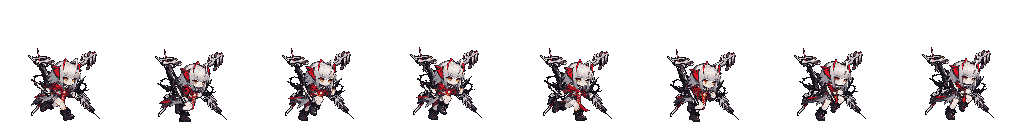
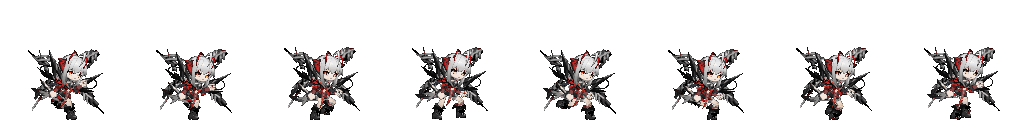
维什戴尔跑步换 Spine 步态版（用户批准 d64e4648）
- op_wisadel_run@2x：tools/spine_run_trial cfg/wisadel.json 出图（8 帧 128 画布，原点 64.5/119.6 ≈ 现行 foot 32,60）；1x 由 @2x 2×2 多数取色
- json 不动（run 槽 8 帧 / fps / foot 与现行一致）
- art_lint：wisadel run 豁免说明改为新来源
- 同 seed：seed 1 wisadel 在 main 30c9d0d0 原样也不可复现（未改动树连跑分歧于第 171 行，本分支两次分别 87 / 181 行），属既有不确定性，与换图无关

diff --git a/tools/art_lint.py b/tools/art_lint.py
@@ -122,7 +122,7 @@ WAIVERS = {
     ("wisadel", "outline"): "10-16 新规格（docs/103 §5 / 104）：64 画布 @2x 暗色收边、无硬黑外描边（codex/art 01392fc7）",
     ("wisadel", "facing"): "10-16 用户批准整套（codex/art 01392fc7）：扛炮 / 蹲射构图让头部同向分偏，机检口径按旧 48 帧条定",
     ("wisadel", "frontal"): "10-16 用户批准整套（codex/art 01392fc7）：待机 / 跑步偏正面是定稿构图，待改口径",
-    ("wisadel", "run"): "10-16 用户批准的前冲跑步（codex/art 01392fc7，前倾 24–28°）；机检上半身 / 前倾阈值按旧帧条定",
+    ("wisadel", "run"): "10-20 用户批准的 Spine 步态跑步（tools/spine_run_trial cfg/wisadel.json，d64e4648：前倾 20°、后踢、浮游武器 X 形）；机检上半身 / 前倾阈值按旧帧条定",
     ("wisadel", "ground"): "10-16 整套最低行 60–61（@2x 120–121），1px 以内，待改口径",
     ("skadi", "run"): "docs/85 交付 928b8a35 后腿部 / 前倾已达标，仅剩停顿帧 2 对（线为 ≤ 1），协调人 10-13 接受",
     # 以下为 docs/87 附录 B 基线新发现，待协调人 / 用户定是否开返修单（开单后把说明改成返修单号）
